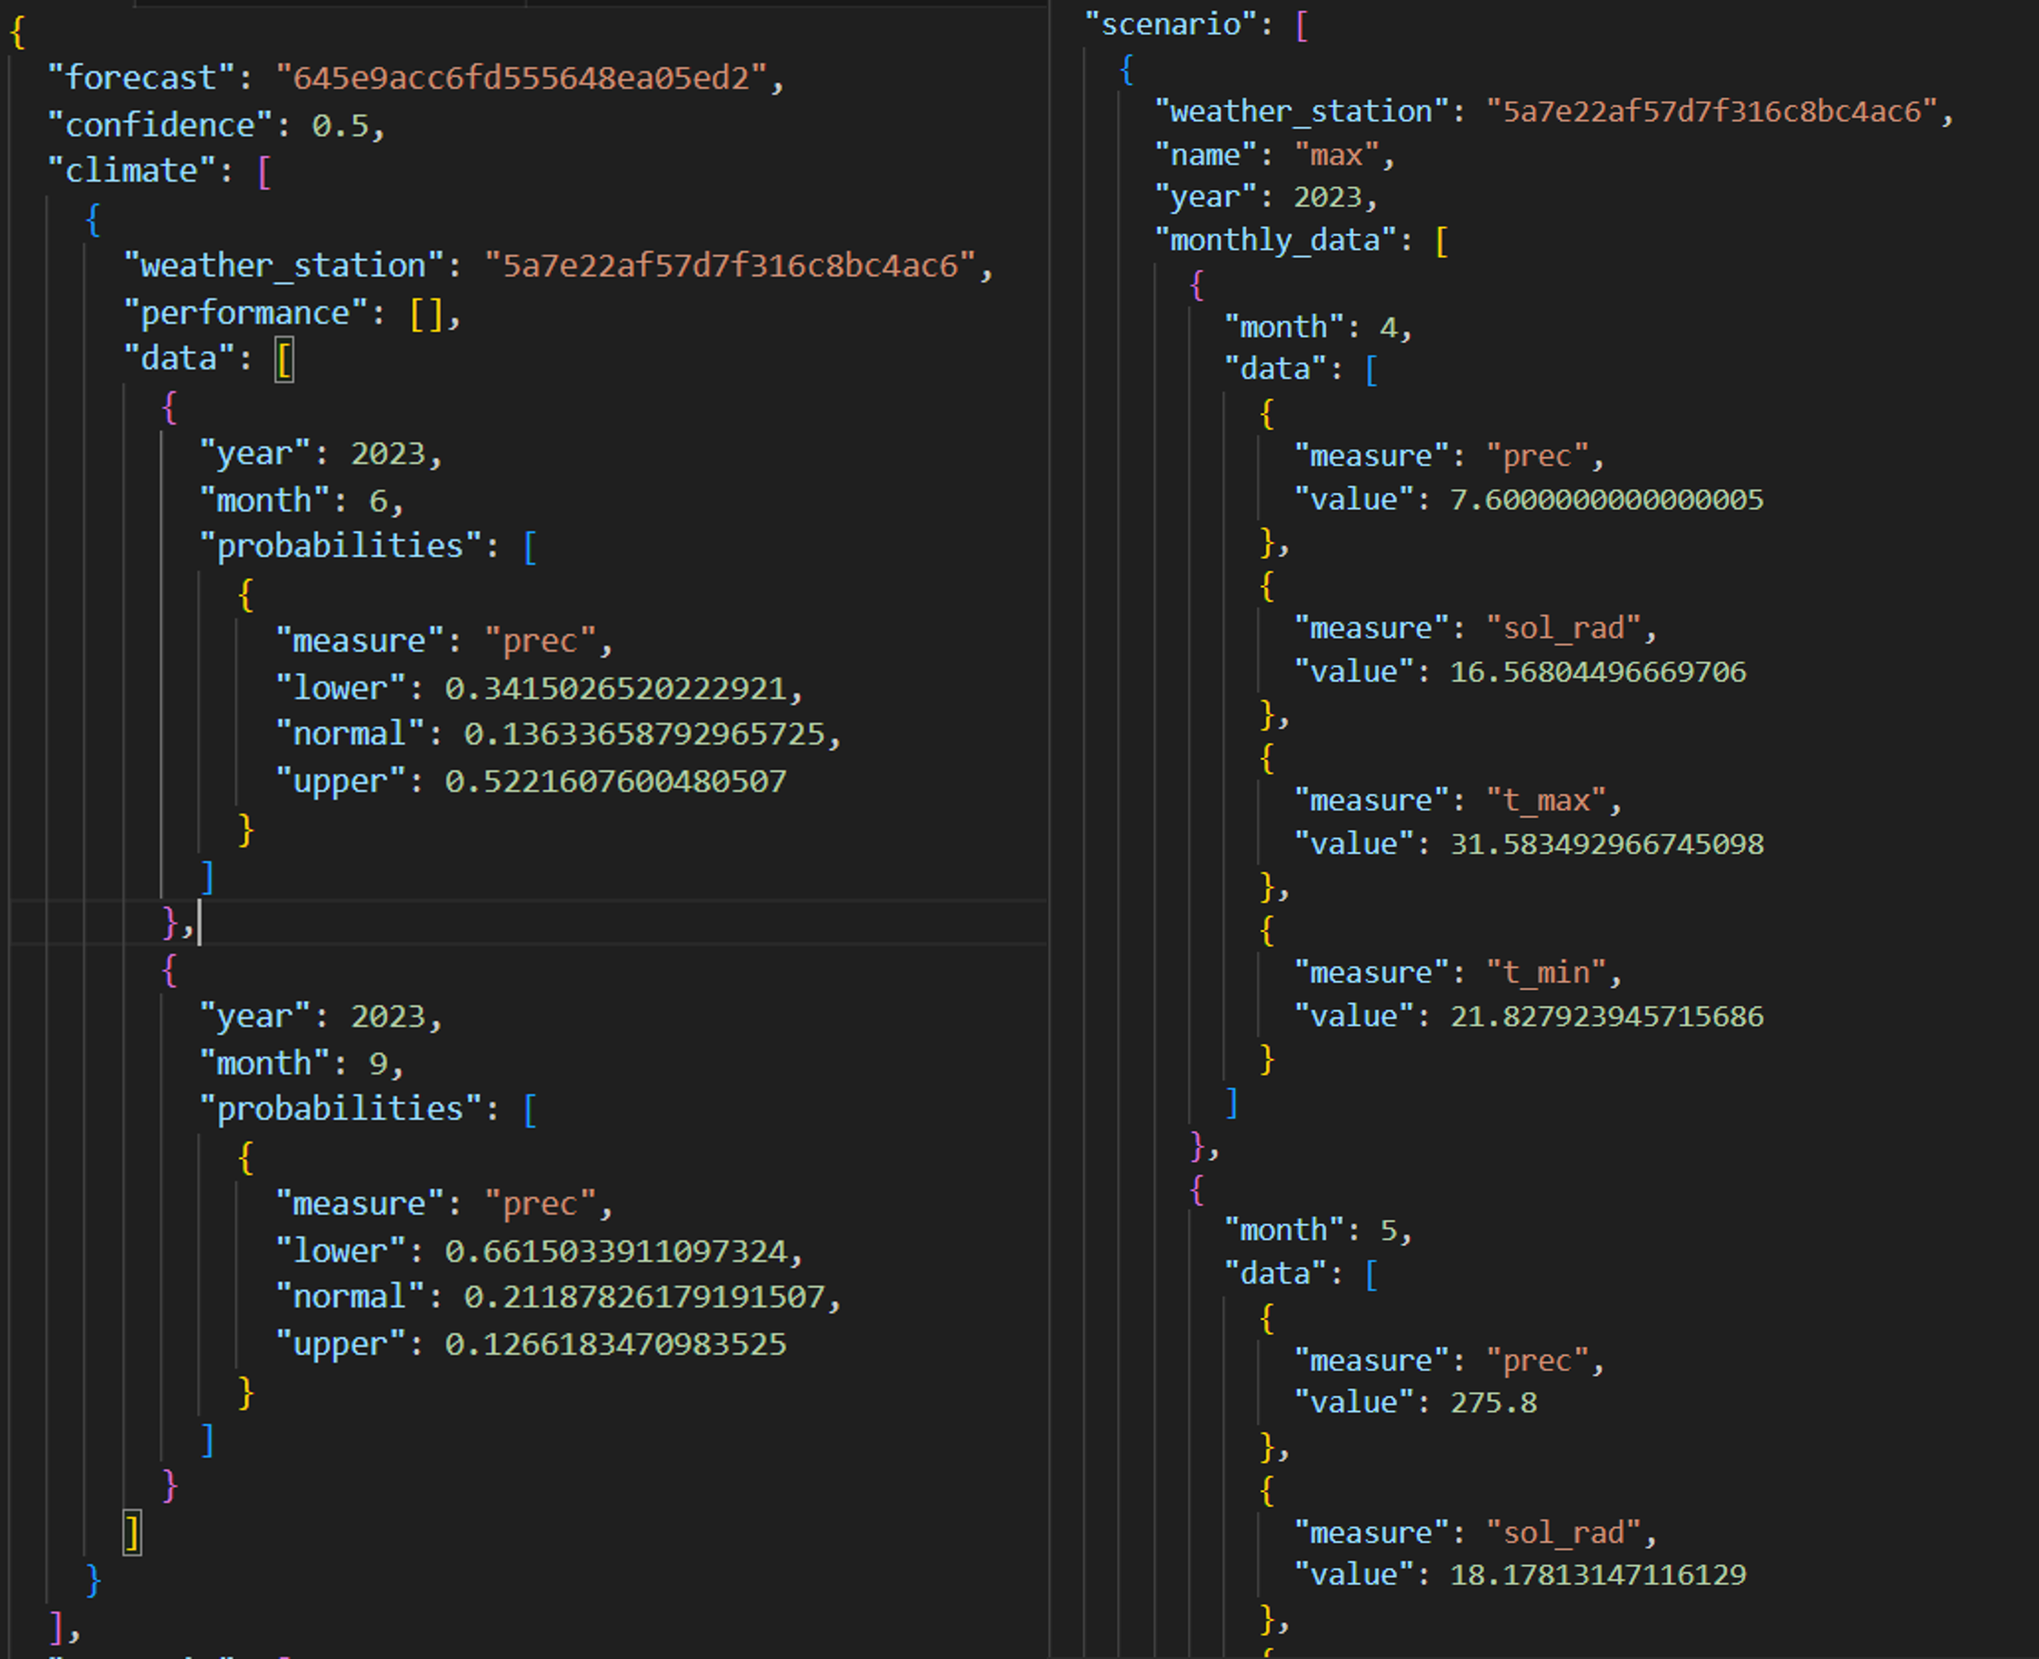
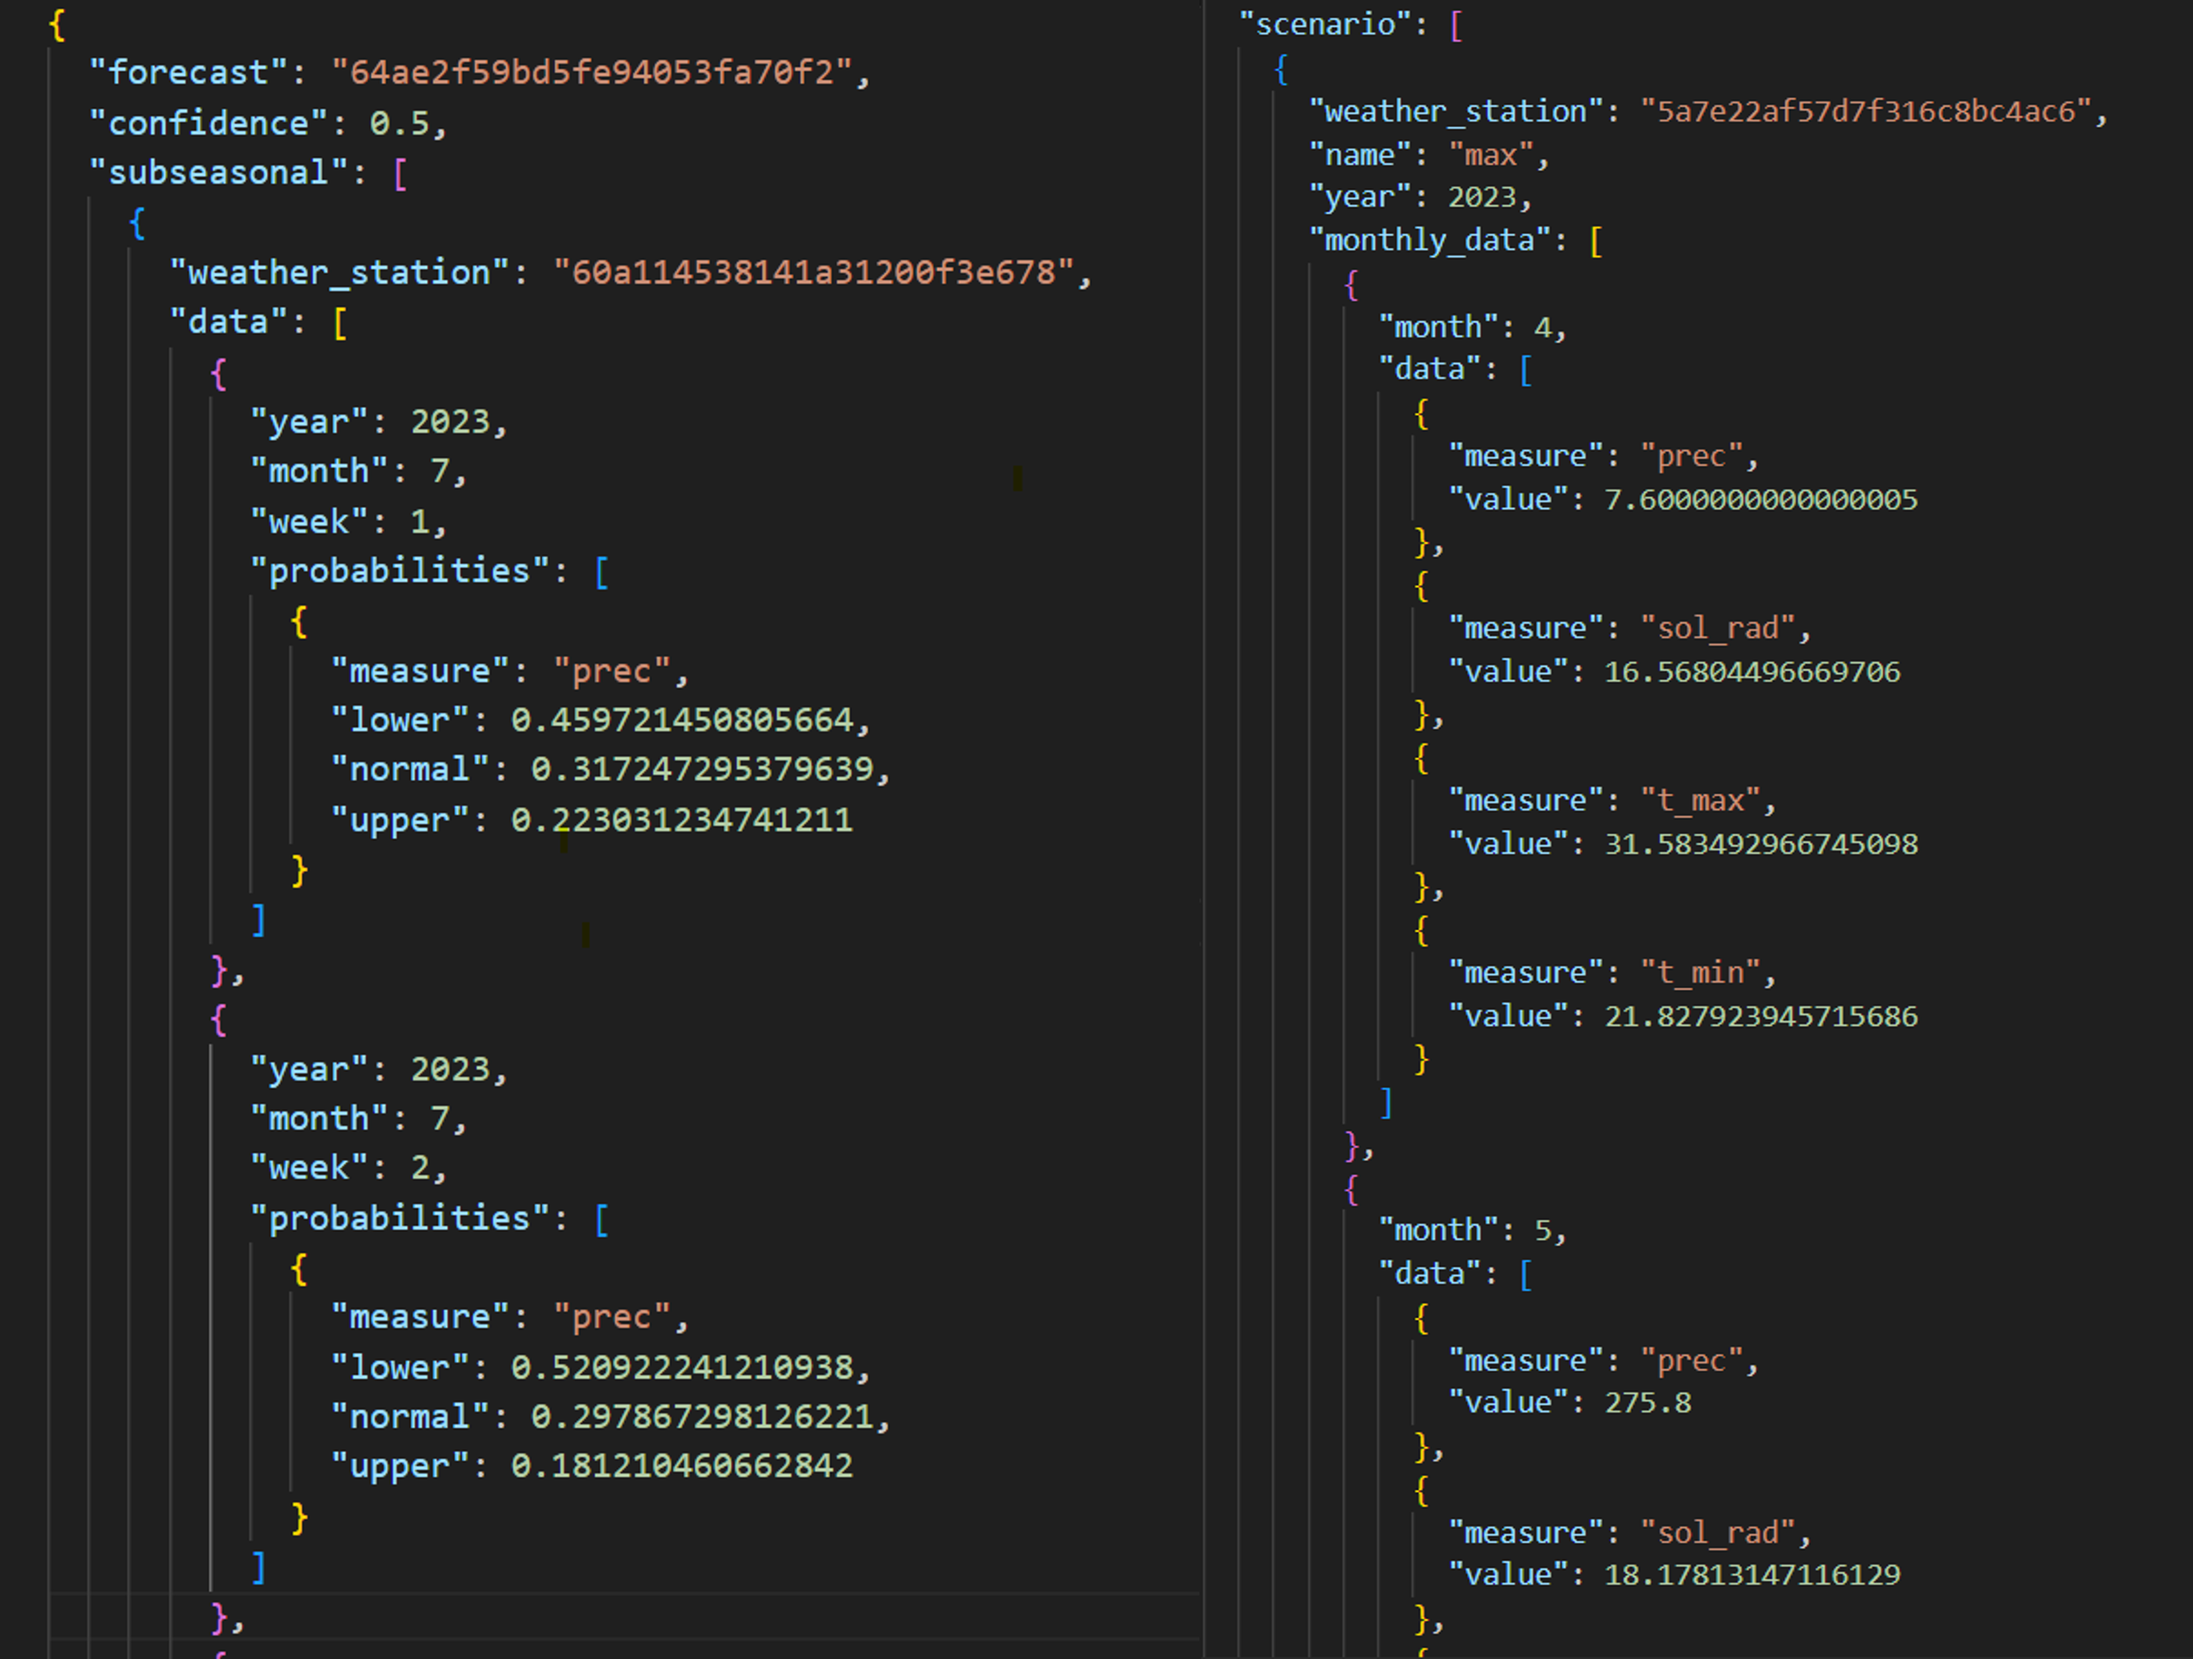
Climate Previous endpoint added

diff --git a/docs/source/08-forecast.rst b/docs/source/08-forecast.rst
@@ -9,7 +9,7 @@ Climate
 =======
 
 
-Through this endpoint you can obtain the information obtained through the forecast process, the probabilities and the climatic scenarios.. This endpoint is used through the Http GET method.
+Through this endpoint you can obtain the information obtained through the forecast process, the probabilities and the climatic scenarios. This endpoint is used through the Http GET method.
 
 To make use of this endpoint you must follow the following steps:
 
@@ -385,6 +385,48 @@ Examples:
 
 
 
+.. _Subseasonal Data - Climate:
+
+.. list-table:: Subseasonal Data - Climate
+  :widths: 25 25 25
+  :header-rows: 1
+
+  * - Parameter
+    - Description
+    - Type
+  
+  * - **year**
+    - It represents the year to which the probabilities correspond.
+    - Integer
+  * - **month**
+    - It represents the month to which the probabilities correspond.
+    - Integer
+  * - **week**
+    - It represents the week to which the probabilities correspond.
+    - Integer
+  * - **probabilities**
+    - To learn more click here :ref:`probability`.
+    - Array of probabilities
+
+
+.. _Climate Subseasonal:
+
+.. list-table:: Climate Subseasonal
+  :widths: 25 25 25
+  :header-rows: 1
+
+  * - Parameter
+    - Description
+    - Type
+  
+  * - **weather_station**
+    - This parameter indicates the ID of the weather station to which the forecast data belongs.
+    - ObjectId
+  * - **data**
+    - To learn more click here :ref:`Subseasonal Data - Climate`.
+    - Array of data
+
+
 .. list-table:: Forecast SubseasonalWS
   :widths: 25 25 25
   :header-rows: 1
@@ -399,9 +441,9 @@ Examples:
   * - **confidence**
     - This parameter indicates the confidence value for the intervals confidence.
     - Double
-  * - **yield**
-    - To learn more click here :ref:`Yield`.
-    - Array of yield.
+  * - **climate**
+    - To learn more click here :ref:`Climate Subseasonal`.
+    - Array of climates.
 
 
 JSON format example:
@@ -546,3 +588,107 @@ CSV format example:
 .. image:: /_static/img/08-forecast/yieldprevious_example_2.*
     :alt: yieldprevious_example_2 csv view
     :class: device-screen-vertical side-by-side
+
+
+
+
+
+Climate Previous
+================
+
+
+Through this endpoint you can obtain the information obtained through the forecast process that is desired by means of the Id, the seasonal and subseasonal probabilities and the climatic scenarios. This endpoint is used through the Http GET method.
+
+To make use of this endpoint you must follow the following steps:
+
+* This endpoint is made up of the **base_URL + /api + /Forecast/ClimatePrevious/** (https://webapi.aclimate.org/api/Forecast/ClimatePrevious/)
+* This endpoint needs two parameters: 
+
+    - **forecast:** Represents the id of the forecast from which the information is desired.
+
+    - **weather_stations:** You must enter the id of the weather station from which you want to get the information, if you want to obtain forecast information for different stations, you must separate each Id by ",". 
+
+    - **probabilities:** If this parameter is true it will show the information of the probabilities if it is false it will show the information of the climatic scenarios in the csv format.
+
+    - **format:** to learn more about format parameter click here :ref:`format`.
+
+
+ 
+
+The endpoint must follow the following format **https://webapi.aclimate.org/api/Forecast/ClimatePrevious/{forecast}/{weather_stations}/{probabilities}/{format}** 
+
+Examples: 
+
+    - https://webapi.aclimate.org/api/Forecast/ClimatePrevious/648202f6a0488e3540a59e4e/60a114538141a31200f3e678/true/json 
+    - https://webapi.aclimate.org/api/Forecast/ClimatePrevious/648202f6a0488e3540a59e4e/60a114538141a31200f3e678/false/csv 
+
+
+
+.. _Climate Previous:
+
+.. list-table:: Climate Previous
+  :widths: 25 25 25
+  :header-rows: 1
+
+  * - Parameter
+    - Description
+    - Type
+  
+  * - **weather_station**
+    - This parameter indicates the ID of the weather station to which the forecast data belongs.
+    - ObjectId
+  * - **performance**
+    - To learn more click here :ref:`Performance`.
+    - Array of performance
+  * - **data**
+    - To learn more click here :ref:`Data - Climate`.
+    - Array of data
+  * - **subseasonal_data**
+    - To learn more click here :ref:`Subseasonal Data - Climate`.
+    - Array of data
+
+
+
+.. list-table:: Forecast Climate
+  :widths: 25 25 25
+  :header-rows: 1
+
+  * - Parameter
+    - Description
+    - Type
+  
+  * - **forecast**
+    - Indicates the id of the forecast to which the data belongs.
+    - ObjectId
+  * - **confidence**
+    - This parameter indicates the confidence value for the intervals confidence.
+    - Double
+  * - **climate**
+    - To learn more click here :ref:`Climate Previous`.
+    - Array of climates.
+  * - **scenario**
+    - To learn more click here :ref:`Scenario`.
+    - Array of scenarios.
+
+
+
+JSON format example:
+
+.. image:: /_static/img/08-forecast/climateprevious_example_1.*
+    :alt: climateprevious_example_1 json view
+    :class: device-screen-vertical side-by-side
+
+
+JSON format example 2:
+
+.. image:: /_static/img/08-forecast/climateprevious_example_1-2.*
+    :alt: climateprevious_example_1-2 csv view
+    :class: device-screen-vertical side-by-side
+
+
+CSV format example when probabilities is false:
+
+.. image:: /_static/img/08-forecast/climateprevious_example_2.*
+    :alt: climateprevious_example_2 csv view
+    :class: device-screen-vertical side-by-side
+
